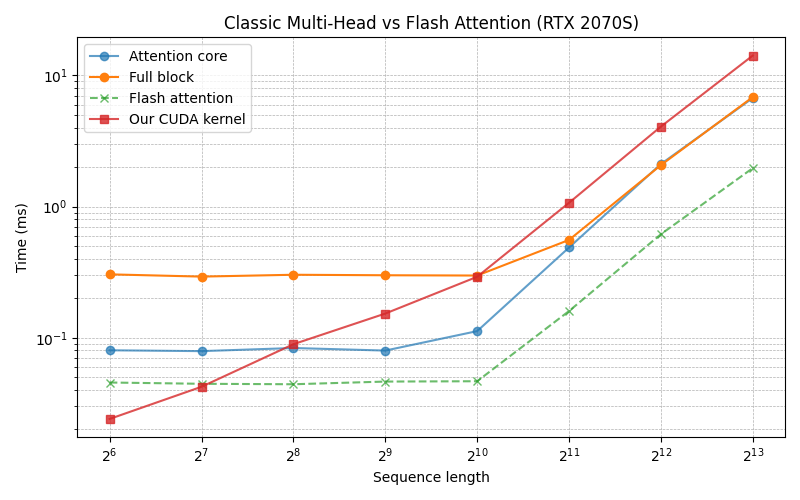
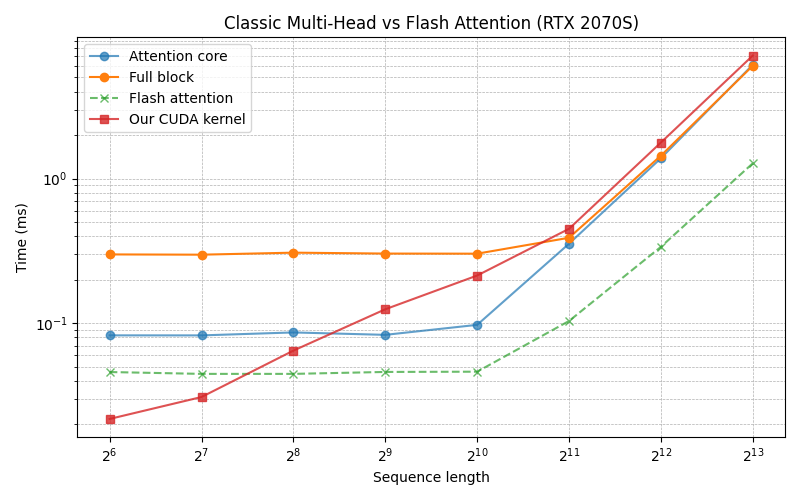
Add padding to reduce smem bank conflicts

diff --git a/src/cuda/simple_compile.py b/src/cuda/simple_compile.py
@@ -13,11 +13,9 @@ try:
     cuda_ext = load(
         name='flash_attention_cuda',
         sources=[cpp_dir, cu_dir],
-        extra_cflags=['/std:c++17'],
         extra_cuda_cflags=[
             '-arch=sm_75',
             '--use_fast_math',
-            '-std=c++14',
             '--ptxas-options=-v',
         ],
         verbose=True,
